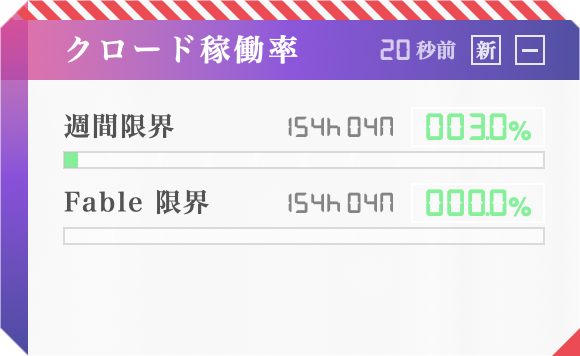
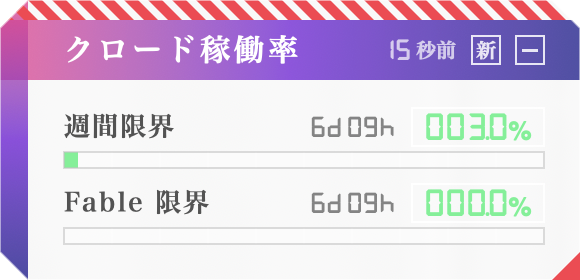
Fit the MAX panel to its rows; show the usage hint in the title bar
With two weekly limits the panel kept the 178pt height made for three rows
and left an empty band at the bottom. The height now follows the row count
(two rows: 140pt), resizing with the top edge in place; the error banner
keeps 178pt. The 公式で使用量を確認 hint used to float over the first row;
it now swaps in for the title while the title is hovered. Reset times a day
or more away read as days and hours (6d 09h).

diff --git a/src/uki.swift b/src/uki.swift
@@ -149,8 +149,18 @@ func fmtRemaining(_ resetAt: Int?, now: Date) -> String {
     let secs = max(0, r - Int(now.timeIntervalSince1970))
     let h = secs / 3600
     let m = (secs % 3600) / 60
+    if h >= 24 { return String(format: "%dD %02dH", h / 24, h % 24) }
     if h > 0 { return String(format: "%dH %02dM", h, m) }
     return String(format: "%dM", m)
+}
+
+// MAX panel height follows the rows: each MetricRow takes 38pt (30 + 8 spacing),
+// and three rows filled the original 178pt. The error banner keeps 178 because
+// its layout and the re-login hot zone are set for that height; every other
+// state fits at least two rows so a network wait after wake doesn't resize it.
+func maxPanelHeight(_ s: UsageState?) -> CGFloat {
+    if let s, s.error != nil, s.network_wait != true { return 178 }
+    return CGFloat(64 + 38 * max(2, s?.limits?.count ?? 0))
 }
 
 func fmtClock(_ resetAt: Int?, now: Date) -> String {
@@ -527,7 +537,6 @@ struct MaxBackground: ViewModifier {
 }
 
 struct MaxOverlay: ViewModifier {
-    @ObservedObject var model: AppModel
     func body(content: Content) -> some View {
         content
             .overlay(
@@ -551,28 +560,6 @@ struct MaxOverlay: ViewModifier {
             .clipShape(EvaPanel(cut: 14))
             .overlay(EvaPanel(cut: 14).stroke(Color.white.opacity(0.5), lineWidth: 1))
             .overlay(HazardCorner(size: 14, rotated: true), alignment: .bottomTrailing)
-            .overlay(UsageHintOverlay(model: model), alignment: .topLeading)
-    }
-}
-
-struct UsageHintOverlay: View {
-    @ObservedObject var model: AppModel
-    var body: some View {
-        Group {
-            if model.showUsageHint {
-                Text("▸ 公式で使用量を確認")
-                    .font(mincho(9))
-                    .foregroundStyle(Eva.amber)
-                    .padding(.horizontal, 8)
-                    .padding(.vertical, 3)
-                    .background(Color.black.opacity(0.88))
-                    .clipShape(EvaPanel(cut: 4))
-                    .overlay(EvaPanel(cut: 4).stroke(Eva.amber.opacity(0.4), lineWidth: 1))
-                    .transition(.opacity)
-            }
-        }
-        .animation(.easeInOut(duration: 0.15), value: model.showUsageHint)
-        .padding(.top, 44).padding(.leading, 32)
     }
 }
 
@@ -650,13 +637,33 @@ struct MaxView: View {
         .frame(width: 14, height: 14)
     }
 
-    private var titleRow: some View {
-        HStack(spacing: 8) {
+    // Hovering the title (click opens claude.ai usage) swaps the title for the
+    // hint in place, so the hint never covers the rows below.
+    private var titleText: some View {
+        ZStack(alignment: .leading) {
             Text("クロード稼働率")
                 .font(.custom("HiraMinProN-W6", size: 15).weight(.black))
                 .foregroundStyle(.white)
                 .tracking(2)
                 .fixedSize()
+                .opacity(model.showUsageHint ? 0 : 1)
+            Text("公式で使用量を確認")
+                .font(mincho(11))
+                .foregroundStyle(Eva.amber)
+                .padding(.horizontal, 8)
+                .padding(.vertical, 3)
+                .background(Color.black.opacity(0.88))
+                .clipShape(EvaPanel(cut: 4))
+                .overlay(EvaPanel(cut: 4).stroke(Eva.amber.opacity(0.4), lineWidth: 1))
+                .fixedSize()
+                .opacity(model.showUsageHint ? 1 : 0)
+        }
+        .animation(.easeInOut(duration: 0.15), value: model.showUsageHint)
+    }
+
+    private var titleRow: some View {
+        HStack(spacing: 8) {
+            titleText
             Spacer(minLength: 6)
             statusIndicator
             refreshButton
@@ -699,9 +706,9 @@ struct MaxView: View {
             contentArea
         }
         .padding(EdgeInsets(top: 10, leading: 32, bottom: 4, trailing: 18))
-        .frame(width: 290, height: 178)
+        .frame(width: 290, height: maxPanelHeight(loader.state))
         .modifier(MaxBackground())
-        .modifier(MaxOverlay(model: model))
+        .modifier(MaxOverlay())
     }
 }
 
@@ -1313,7 +1320,7 @@ final class AppDelegate: NSObject, NSApplicationDelegate {
     var pathMonitor: NWPathMonitor?
     var toggleVisibilityItem: NSMenuItem?
 
-    let maxSize = NSSize(width: 290, height: 178)
+    var maxSize: NSSize { NSSize(width: 290, height: maxPanelHeight(loader.state)) }
     let minSize = NSSize(width: 116, height: 28)
 
     // Hot zones for "minimize" while in MAX form: top-right ▢ + bottom-right red corner.
@@ -1443,7 +1450,11 @@ final class AppDelegate: NSObject, NSApplicationDelegate {
         // refresh) so the live styles track the current usage %.
         iconCancellable = loader.$state
             .receive(on: RunLoop.main)
-            .sink { [weak self] _ in self?.updateMenuBarIcon() }
+            .sink { [weak self] _ in
+                self?.updateMenuBarIcon()
+                // One runloop later, after SwiftUI has laid out the new height.
+                DispatchQueue.main.async { self?.fitMaxPanel() }
+            }
 
         NSWorkspace.shared.notificationCenter.addObserver(
             forName: NSWorkspace.didWakeNotification, object: nil, queue: .main
@@ -1589,6 +1600,21 @@ final class AppDelegate: NSObject, NSApplicationDelegate {
         menu.addItem(quit)
         return menu
     }
+    // Fit the MAX panel to the current rows, keeping its top edge in place.
+    func fitMaxPanel() {
+        guard !model.minimized, let panel else { return }
+        let target = maxSize
+        let cur = panel.frame
+        guard abs(cur.height - target.height) > 0.5 else { return }
+        panel.setFrame(NSRect(x: cur.minX, y: cur.maxY - target.height,
+                              width: target.width, height: target.height),
+                       display: true, animate: false)
+        inputView.toggleHotZones = AppDelegate.maxHotZones(for: target)
+        inputView.refreshHotZones = AppDelegate.maxRefreshHotZones(for: target)
+        inputView.usageHotZones = AppDelegate.maxUsageHotZones(for: target)
+        inputView.reLoginHotZones = AppDelegate.maxReLoginHotZones(for: target)
+    }
+
     @objc func openUsagePage() {
         NSWorkspace.shared.open(URL(string: "https://claude.ai/settings/usage")!)
     }

diff --git a/README.md b/README.md
@@ -96,7 +96,7 @@ The monitor adapts polling cadence based on system state: 3 min on AC, 5 min on 
 ## Customizing
 
 - **Position**: drag the panel anywhere; it remembers per-launch
-- **Size**: click the `▼` to toggle between MAX (290×178) and MIN (116×28)
+- **Size**: click the `▼` to toggle between MAX (290 wide, as tall as its rows) and MIN (116×28)
 - **Colors / fonts**: edit `src/uki.swift`, search for `enum Eva` (palette) or `func mincho` (fonts)
 - **Icon**: edit `src/make-icon.swift` and rebuild — the squircle, central glyph, and corner accent are all parametric
 
